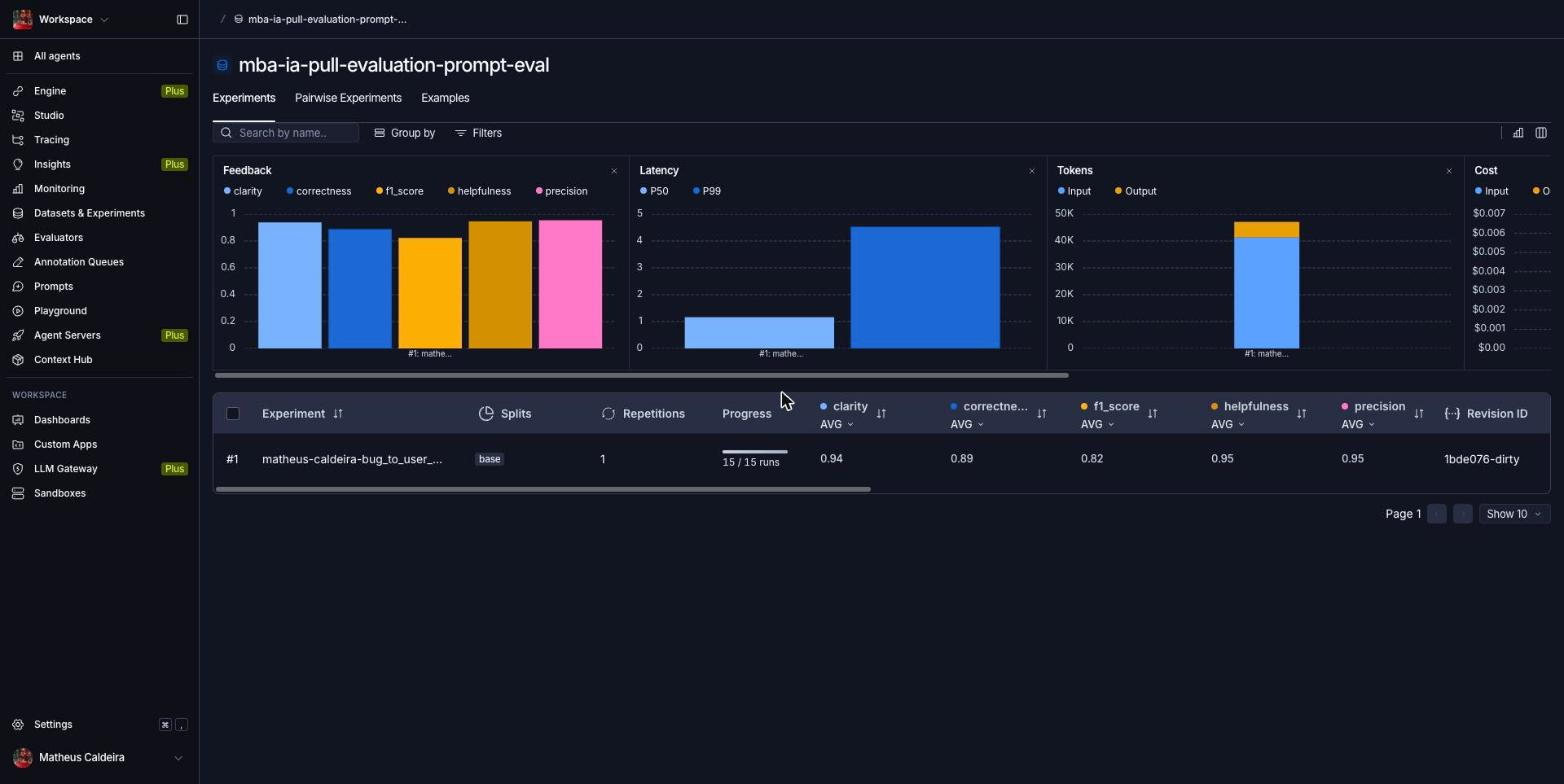
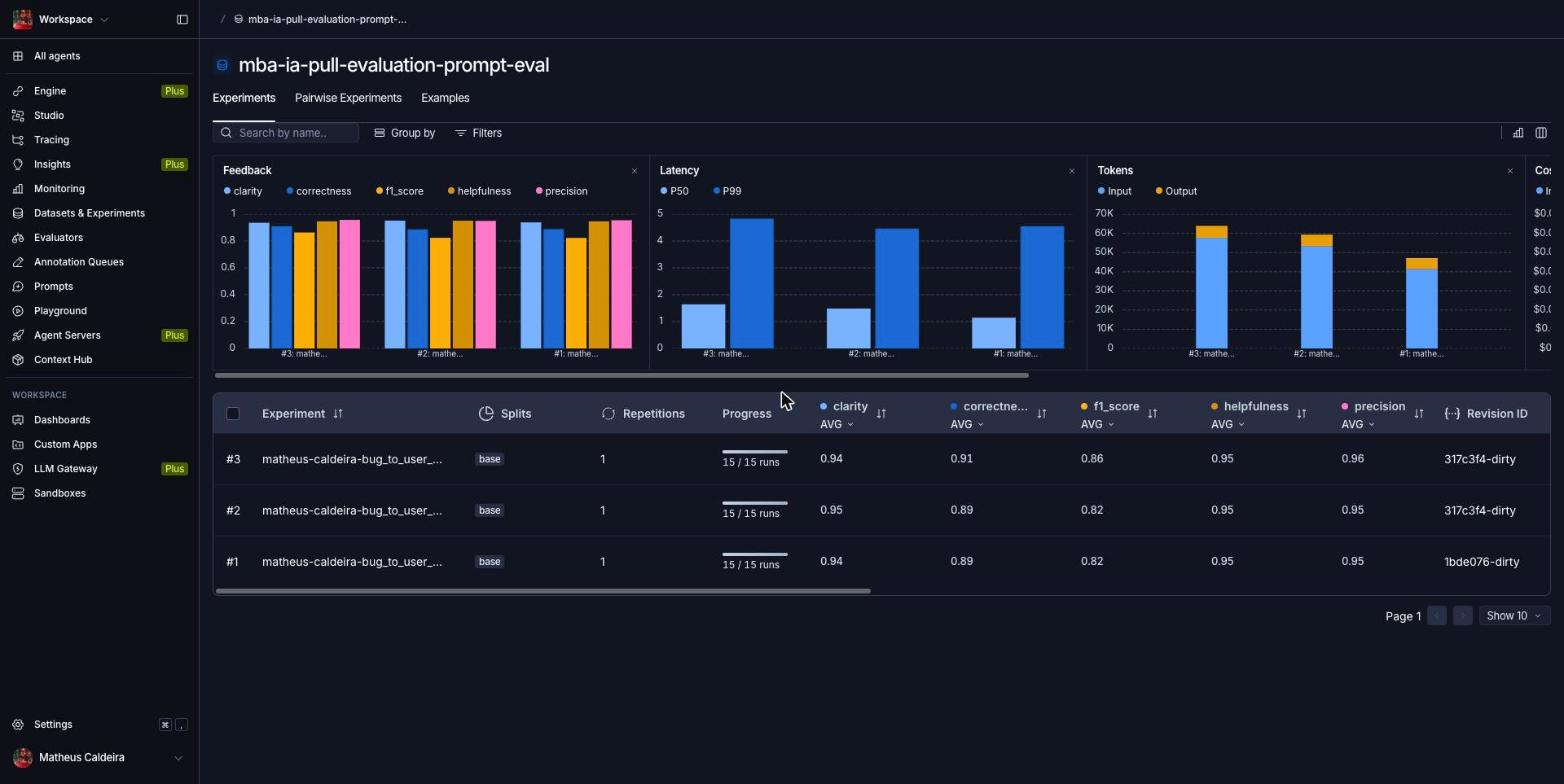
feat(prompt): iterações 2 e 3 do v2 guiadas pelo tracing (F1 0.82 -> 0.86)
- bugs médios sempre com bloco complementar e bloco de contexto
- meta verificável para o comportamento esperado; complexidade redefinida
- persona pela pessoa afetada; 'o sistema' só em falhas de bastidor
- 4º exemplo few-shot (médio técnico), sem vazamento do dataset
- README com a jornada das 3 iterações e evidências da versão final

diff --git a/README.md b/README.md
@@ -10,7 +10,7 @@ e Precision), com meta de **≥ 0.8 em todas**.
 - Prompt otimizado: [`prompts/bug_to_user_story_v2.yml`](prompts/bug_to_user_story_v2.yml)
 
 > **Resultado:** o v2 (`matheus-caldeira/bug_to_user_story_v2`) foi aprovado
-> com **todas as 5 métricas ≥ 0.8** (média 0.91). Dataset e experimentos
+> com **todas as 5 métricas ≥ 0.8** (média 0.92, após 3 iterações). Dataset e experimentos
 > públicos: <https://smith.langchain.com/public/71aedd8a-5637-4b11-a84c-0e65427e2b47/d>.
 > Detalhes em [Resultados Finais](#resultados-finais).
 
@@ -60,17 +60,19 @@ própria saída ("implementável sem reunião de esclarecimento"), não só um c
 justamente o que a v1 não especificava. Descrever um layout em prosa é muito
 menos eficaz do que mostrar uma saída pronta.
 
-**Como apliquei.** Seção `## Exemplos` com **3 pares entrada→saída completos**,
-um por nível de complexidade — a mesma divisão do dataset (5 simples, 7 médios,
-3 complexos):
+**Como apliquei.** Seção `## Exemplos` com **4 pares entrada→saída completos**,
+cobrindo os níveis de complexidade do dataset (5 simples, 7 médios, 3
+complexos) — os médios têm dois exemplos porque são a maior fatia e a que mais
+varia de formato:
 
 | Exemplo | Nível | Demonstra |
 | --- | --- | --- |
 | 1 — evento recorrente some da agenda | simples | parágrafo canônico + 5 bullets Gherkin, e **nada além disso** |
 | 2 — anexo de chat acessível após sair do canal | médio (segurança) | seções extras `Critérios Adicionais para Auditoria:` e `Contexto de Segurança:` |
-| 3 — upload de arquivos falha silenciosamente | complexo | cabeçalhos `=== ... ===`, blocos `A./B./C.` e tasks com prefixos `[SEGURANÇA]`, `[INFRA]` |
+| 3 — campo de CEP dispara uma consulta por tecla *(iteração 2)* | médio (técnico) | `Critérios Técnicos:` e `Contexto Técnico:` com atual × esperado e uma meta verificável |
+| 4 — upload de arquivos falha silenciosamente | complexo | cabeçalhos `=== ... ===`, blocos `A./B./C.` e tasks com prefixos `[SEGURANÇA]`, `[INFRA]` |
 
-Os três exemplos foram **escritos do zero**, em domínios que não aparecem no
+Os quatro exemplos foram **escritos do zero**, em domínios que não aparecem no
 dataset de avaliação, para que as métricas meçam generalização e não
 memorização (ver [Sem vazamento do dataset](#sem-vazamento-do-dataset-nos-exemplos-few-shot)).
 
@@ -84,7 +86,8 @@ de falhar" — que descreve o bug, não a história.
 
 **Como apliquei.** Roteiro de 5 passos, executado antes de escrever:
 
-> 1. Identifique QUEM é afetado pelo bug (...). Esse é o ator da história.
+> 1. Identifique QUEM é afetado pelo bug e em que contexto de uso (...).
+>    Na dúvida, o ator é a PESSOA que vê ou sofre o defeito (...).
 > 2. Identifique QUAL é o comportamento correto esperado — não o defeito. A
 >    User Story descreve o estado desejado, nunca o erro.
 > 3. Identifique POR QUE isso importa para o negócio ou para o usuário.
@@ -175,7 +178,7 @@ quebraria os 15 exemplos da avaliação de uma vez).
 | --- | --- | --- | --- |
 | 1 | Variável duplicada | `{bug_report}` no `system_prompt` **e** no `user_prompt` | Variável só no `user_prompt`; guarda em `push_prompts.py` impede regressão |
 | 2 | Persona genérica | "Você é um assistente que ajuda a transformar relatos de bugs" | Product Manager sênior, 10+ anos, com critério de qualidade explícito |
-| 3 | Zero exemplos | nenhuma saída de referência | 3 pares entrada→saída, um por nível de complexidade |
+| 3 | Zero exemplos | nenhuma saída de referência | 4 pares entrada→saída (simples, dois médios, complexo) |
 | 4 | Sem formato de saída | "crie uma user story a partir dele" | Formato canônico *Como/eu quero/para que* + Gherkin em PT-BR, texto plano |
 | 5 | Sem regras de comportamento | nenhuma | 6 regras numeradas (não inventar, comportamento ≠ defeito, critérios testáveis, preservar IDs técnicos, concisão, sem preâmbulo) |
 | 6 | Sem raciocínio guiado | resposta direta | CoT silencioso de 5 passos (ator → comportamento → benefício → complexidade → critérios) |
@@ -202,7 +205,7 @@ A aprovação exige as **cinco** ≥ 0.8, e não só a média.
 - Modelos: `gemini-2.5-flash-lite` gera a resposta; `gemini-2.5-flash` avalia
   (LLM-as-Judge), ambos com `temperature=0`.
 
-Saída real de `./venv/bin/python src/evaluate.py`:
+Saída real de `./venv/bin/python src/evaluate.py` na versão final (iteração 3):
 
 ```
 ==================================================
@@ -211,64 +214,103 @@ Prompt: matheus-caldeira/bug_to_user_story_v2
 
 Métricas Derivadas:
   - Helpfulness: 0.95 ✓
-  - Correctness: 0.89 ✓
+  - Correctness: 0.91 ✓
 
 Métricas Base:
-  - F1-Score: 0.82 ✓
+  - F1-Score: 0.86 ✓
   - Clarity: 0.94 ✓
-  - Precision: 0.95 ✓
+  - Precision: 0.96 ✓
 
 --------------------------------------------------
-📊 MÉDIA GERAL: 0.9097
+📊 MÉDIA GERAL: 0.9221
 --------------------------------------------------
 
 ✅ STATUS: APROVADO - Todas as métricas >= 0.8
 ```
 
-| Métrica | v2 | Mínimo |
-| --- | --- | --- |
-| Helpfulness | 0.95 | 0.8 |
-| Correctness | 0.89 | 0.8 |
-| F1-Score | 0.82 | 0.8 |
-| Clarity | 0.94 | 0.8 |
-| Precision | 0.95 | 0.8 |
-| **Média** | **0.91** | 0.8 |
-
 ### Iterações
 
-O v2 foi construído offline antes do acesso ao LangSmith, usando os 15 exemplos
-do dataset como referência de **estilo** (não de conteúdo — ver "Sem vazamento"
-abaixo): calibragem de tamanho por complexidade, formato canônico e Gherkin em
-PT-BR foram ajustados lendo as saídas de referência. Na primeira avaliação real
-ele já atingiu ≥ 0.8 nas cinco métricas, então não houve nova rodada.
+Foram 3 iterações; cada uma é um experimento no mesmo dataset, visível lado a
+lado no link público acima. Todas passaram de 0.8, mas o **F1-Score** — a
+métrica de recall/cobertura em relação à resposta de referência — estava no
+limite, então as rodadas 2 e 3 foram dirigidas pelo tracing dos exemplos com F1
+mais baixo.
 
-O ponto mais apertado é o **F1-Score (0.82)**: os exemplos com F1 mais baixo
-(#2 offline-first 0.62, #15 relatórios gerenciais 0.66, #13 carrinho 0.70) são
-os de relato longo, em que o modelo escolhe uma persona ou um recorte de
-critérios diferente do gabarito (ex.: "analista financeiro" em vez de "gerente
-de vendas"). Clarity e Precision ficam ≥ 0.75 em todos os 15 exemplos.
+| Iteração | Experimento | Helpfulness | Correctness | F1-Score | Clarity | Precision | Média |
+| --- | --- | --- | --- | --- | --- | --- | --- |
+| 1 | `…-ca25184c` | 0.95 | 0.89 | 0.82 | 0.94 | 0.95 | 0.910 |
+| 2 | `…-ff523dc1` | 0.95 | 0.89 | 0.82 | 0.95 | 0.95 | 0.912 |
+| 3 (final) | `…-cd5ddb75` | 0.95 | **0.91** | **0.86** | 0.94 | **0.96** | **0.922** |
+
+**Iteração 1 — versão inicial.** Role Prompting + Few-shot (3 exemplos) + CoT
+silencioso + regras e edge cases. Aprovada de primeira, mas com F1 0.82. O
+tracing mostrou que as respostas eram **precisas mas incompletas** (Precision
+0.95, recall baixo):
+
+- bugs médios saíam só com "Critérios de Aceitação", enquanto as referências
+  sempre trazem um bloco de contexto e, em geral, um bloco extra de critérios;
+- a regra "nunca invente números" impedia o modelo de definir uma meta: num
+  relatório que leva > 120 s, ele escreveu "no máximo 2 minutos" — o próprio
+  valor do bug;
+- um único bug com lista de detalhes era classificado como complexo e recebia
+  a estrutura `=== ... ===` inteira.
+
+**Iteração 2 — calibragem dos bugs médios.** Mudanças no v2:
+
+- bug médio passa a ter **sempre** um bloco complementar de critérios
+  (Prevenção / Acessibilidade / Técnicos / Admins / Exemplo de Cálculo) e um
+  bloco de contexto (Técnico / Segurança / do Bug) com atual × esperado;
+- regra 1 refinada: não inventar fatos **sobre o bug**, mas definir uma meta
+  verificável e melhor que o valor atual para o comportamento **esperado**;
+- complexidade redefinida: complexo só com **vários problemas numerados**; um
+  problema com muitos detalhes é médio;
+- complexos com `CRITÉRIOS TÉCNICOS` por problema e `Problemas Identificados`
+  no contexto;
+- novo exemplo few-shot (#3, campo de CEP) mostrando o bloco técnico.
+
+Resultado: os complexos subiram para F1 0.93–1.00, mas o F1 médio ficou em
+0.82, porque surgiram efeitos colaterais: a persona "o sistema" passou a ser
+usada em bugs de exibição (dashboard com contagem errada), o modelo ainda
+repetia o timeout como meta e escolhia o bloco complementar errado
+("Critérios Adicionais para Admins" num bug de modal).
+
+**Iteração 3 — persona, meta e bloco complementar.** Mudanças no v2:
+
+- persona no formato "<papel> <fazendo o quê>" e, na dúvida, a **pessoa** que
+  vê o defeito; "o sistema" só para falhas de bastidor (permissão em API,
+  webhook, validação de estoque/concorrência);
+- bugs simples com exatamente 5 bullets descrevendo a **regra geral** ("deve
+  corresponder ao total real"), não os valores do exemplo ("deve ser 42");
+- escolha do bloco complementar por uma tabela de prioridade (concorrência →
+  Prevenção; modal/foco → Acessibilidade; permissão → Admins; cálculo →
+  Exemplo de Cálculo; performance/integração → Técnicos);
+- meta de lentidão cerca de 4× melhor que o valor atual e sempre abaixo do
+  timeout (o exemplo na regra usa números que não existem no dataset).
+
+Resultado: F1 0.86, Correctness 0.91 e Precision 0.96 — a melhor das três, e
+a versão publicada como final no Hub.
 
 ### Screenshots
 
-**Experimento do v2 com as 5 métricas ≥ 0.8**
+**As 3 iterações (experimentos #1, #2 e #3) com as 5 métricas ≥ 0.8**
 
-![Experimento com as métricas médias](docs/evidencias/01-experimento-metricas.jpg)
+![Três experimentos com as métricas médias](docs/evidencias/01-experimento-metricas.jpg)
 
 **Dataset de avaliação com os 15 exemplos**
 
 ![Dataset com 15 exemplos](docs/evidencias/02-dataset-15-exemplos.jpg)
 
-**Notas por exemplo (15/15 runs)**
+**Notas por exemplo na iteração final (15/15 runs)**
 
 ![Notas por exemplo](docs/evidencias/03-notas-por-exemplo.jpg)
 
-**Tracing detalhado de 3 exemplos** (entrada, saída gerada, referência e notas)
+**Tracing detalhado de 3 exemplos da iteração final** (entrada, saída gerada, referência e notas)
 
 1. Bug simples — "Botão de adicionar ao carrinho não funciona no produto ID 1234"
 
    ![Trace do bug simples](docs/evidencias/04-trace-simples.jpg)
 
-2. Bug médio (segurança) — `/api/users/:id` sem validação de permissão
+2. Bug médio (interface) — modal de confirmação atrás do menu lateral, com `Critérios de Acessibilidade:`
 
    ![Trace do bug médio](docs/evidencias/05-trace-medio.jpg)
 
@@ -280,7 +322,7 @@ de vendas"). Clarity e Precision ficam ≥ 0.75 em todos os 15 exemplos.
 
 Um risco comum em few-shot é copiar itens do próprio dataset de avaliação para
 dentro do prompt: o modelo recebe o gabarito e a nota passa a medir cópia, não
-capacidade. Cada um dos 3 exemplos do v2 foi cruzado contra a entrada e a saída
+capacidade. Cada um dos 4 exemplos do v2 foi cruzado contra a entrada e a saída
 de referência dos 15 itens de `datasets/bug_to_user_story.jsonl` (texto
 normalizado: sem acentos, caixa baixa, espaços colapsados), por
 `difflib.SequenceMatcher` e pela fração de linhas idênticas:
@@ -290,14 +332,16 @@ Exemplo 1 entrada: max SequenceMatcher 0.335 (ex[2])  | linhas idênticas 0.000
 Exemplo 1 saida:   max SequenceMatcher 0.135 (ex[4])  | linhas idênticas 0.143
 Exemplo 2 entrada: max SequenceMatcher 0.211 (ex[2])  | linhas idênticas 0.000
 Exemplo 2 saida:   max SequenceMatcher 0.268 (ex[7])  | linhas idênticas 0.294
-Exemplo 3 entrada: max SequenceMatcher 0.235 (ex[3])  | linhas idênticas 0.000
-Exemplo 3 saida:   max SequenceMatcher 0.145 (ex[12]) | linhas idênticas 0.194
+Exemplo 3 entrada: max SequenceMatcher 0.210 (ex[3])  | linhas idênticas 0.200
+Exemplo 3 saida:   max SequenceMatcher 0.055 (ex[12]) | linhas idênticas 0.188
+Exemplo 4 entrada: max SequenceMatcher 0.235 (ex[3])  | linhas idênticas 0.286
+Exemplo 4 saida:   max SequenceMatcher 0.145 (ex[12]) | linhas idênticas 0.194
 maior similaridade: 0.335
 ```
 
-As linhas idênticas residuais são rótulos estruturais (`Critérios de
-Aceitação:`, `Contexto de Segurança:`, `Severidade: ALTA`, `=== CONTEXTO DO BUG
-===`) — exatamente o vocabulário de formato que o few-shot existe para ensinar.
+As linhas idênticas residuais são rótulos estruturais (`Detalhes:`,
+`PROBLEMAS IDENTIFICADOS:`, `Critérios de Aceitação:`, `Contexto de
+Segurança:`, `Severidade: ALTA`, `=== CONTEXTO DO BUG ===`) — exatamente o vocabulário de formato que o few-shot existe para ensinar.
 
 ### Testes de validação
 
